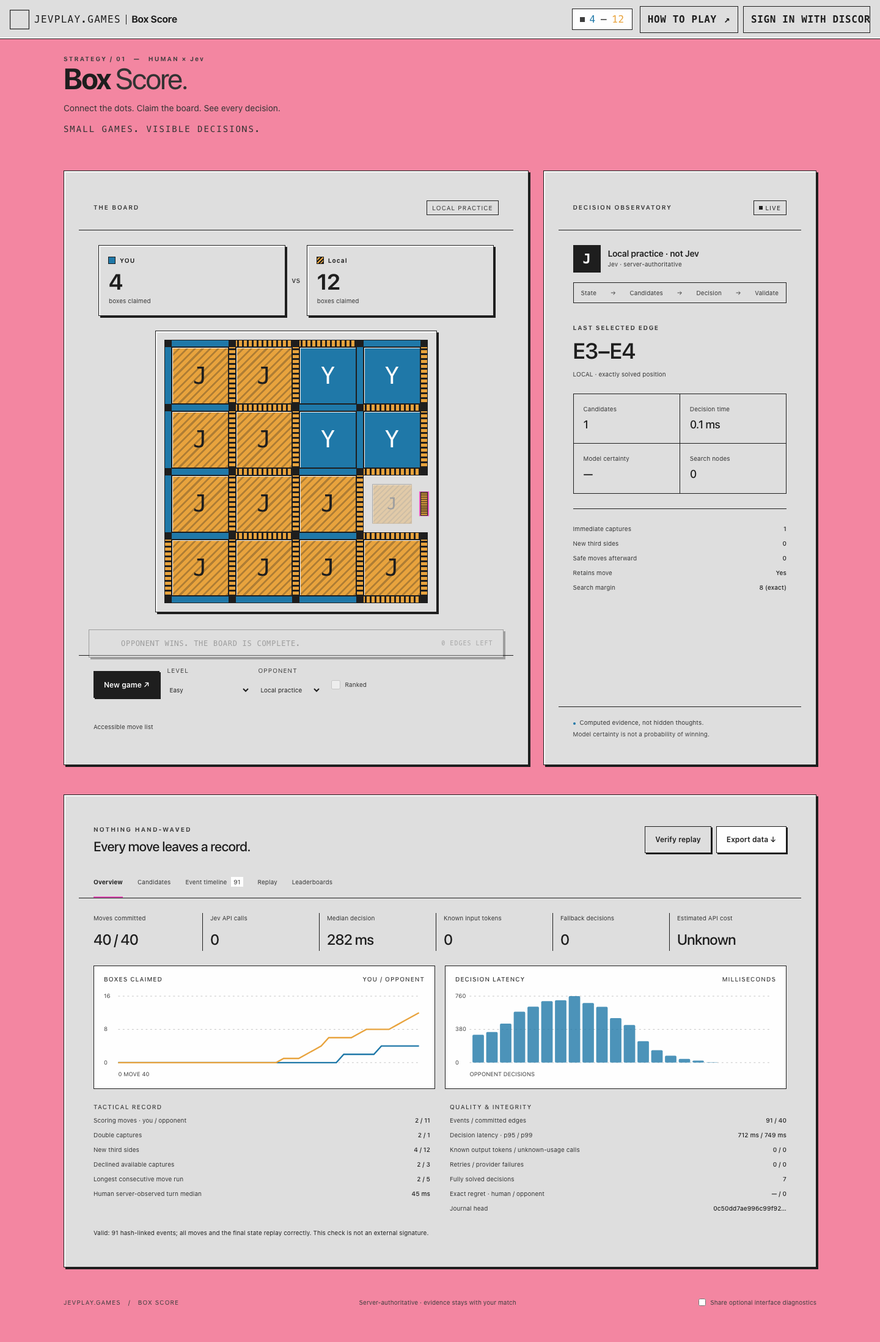
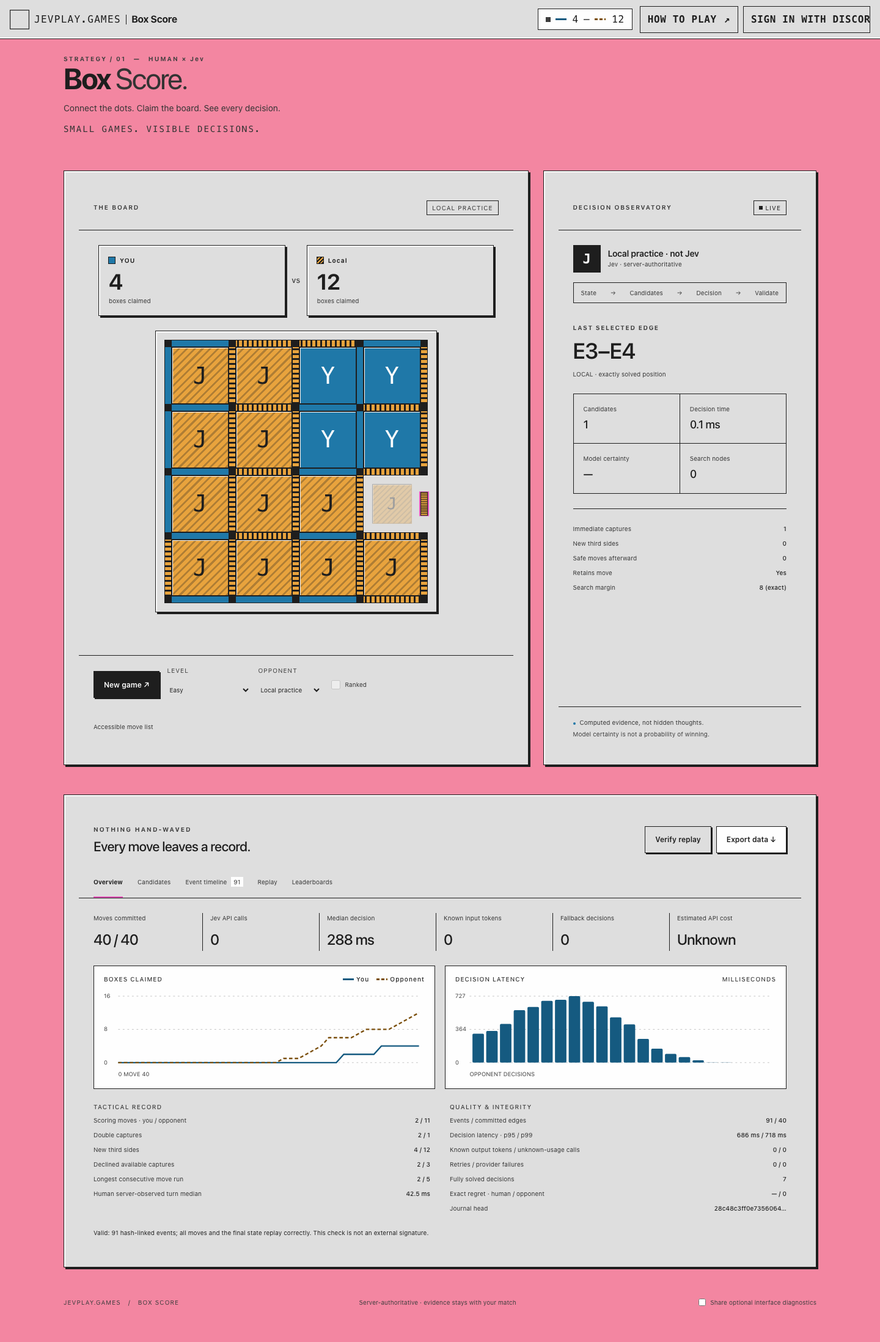
Apply the D8 chart colours: dark chart pair, dashed Jev series, legends
Chart-contrast audit (CHART-AUDIT.md, T5a) failed the boxes-claimed Jev line (2.14:1),
the replay Jev edges (1.60:1) and the Jev score text in the header (2.14:1).
- game.css defines --chart-jev #7A4E0B / --chart-human #155A80 (brand.css untouched)
- Score chart, latency bars and replay lines/boxes use the chart pair; Jev series dashed
- Boxes-claimed chart gets a legend: ink text, solid/dashed coloured swatches
- Header scores are ink text with a coloured swatch beside each
- Regenerated build manifest, SHA256SUMS, test results and browser previews

diff --git a/public/game.css b/public/game.css
@@ -1,7 +1,11 @@
 /* brand.css owns colour, type, spacing and radius tokens. Box Score keeps the default ink accent:
    the board tells players apart with the shared --human (blue) and --jev (amber) fills, plus a
-   non-colour cue on every Jev piece (striped rails, hatched boxes, the J initial). No hex here. */
-*{box-sizing:border-box}body{font-size:var(--fs-sm);line-height:1.6}button,input,select{font:inherit}button,a,input,select,summary{outline-offset:5px}button{cursor:pointer}button:disabled{cursor:not-allowed;opacity:.5}button,a{touch-action:manipulation}a{color:inherit;text-decoration:none}[hidden]{display:none!important}.button{background:var(--raised);border:1px solid var(--line);border-radius:var(--radius-sm);color:var(--text);padding:var(--s2) var(--s4);min-height:44px;transition:background .15s,border-color .15s;font-weight:600;font-size:var(--fs-xs);white-space:nowrap}.button{box-shadow:var(--drop-sm)}.button:active{background:var(--surface);transform:translate(1px,1px);box-shadow:none}@media(hover:hover){.button:hover{background:var(--surface)}}.button.primary{background:var(--ink);border-color:var(--ink);color:var(--paper)}.button.primary:active{background:var(--muted)}@media(hover:hover){.button.primary:hover{background:var(--muted)}}.button.subtle{background:transparent}.button.selected{background:var(--ink);border-color:var(--ink);color:var(--paper)}.title-row{display:flex;align-items:center;justify-content:space-between;margin-bottom:var(--s6)}.eyebrow{color:var(--subtle);font-size:var(--fs-2xs);font-weight:700;letter-spacing:2px}.separator{padding:0 var(--s2)}.title-dot{color:var(--ink)}.subtitle{color:var(--muted);margin:var(--s2) 0 0;font-size:var(--fs-xs)}.workspace{display:grid;grid-template-columns:minmax(0,1.7fr) minmax(310px,1fr);gap:var(--s5)}.game-card,.insight-card,.analytics-card{overflow:hidden}.card-top{display:flex;align-items:center;justify-content:space-between;padding:var(--s5) var(--s5);border-bottom:1px solid var(--line)}.card-top h2{font-size:var(--fs-2xs);letter-spacing:1.7px;font-weight:600;margin:0;color:var(--muted)}.pill{font-size:var(--fs-2xs);letter-spacing:1px;text-transform:uppercase;border:1px solid var(--line);padding:3px var(--s2);border-radius:var(--radius-xl);color:var(--muted);display:inline-flex;align-items:center;gap:var(--s1)}.pill.live{color:var(--text);border-color:var(--line)}.scoreboard{display:grid;grid-template-columns:1fr 35px 1fr;align-items:center;margin:var(--s5) var(--s6) 0}.score-card{position:relative}.score-label{font-size:var(--fs-2xs);letter-spacing:1px;font-weight:650;display:flex;gap:var(--s2);align-items:center}.score-label>span:last-child:not(.player-mark):not(#opponent-name){margin-left:auto;font-size:var(--fs-2xs);color:var(--text)}#jev-turn{color:var(--text)}.player-mark{display:inline-block;width:6px;height:6px;border-radius:2px}.human-dot{background:var(--human)}.jev-dot{background:var(--jev)}.score-value{font-size:var(--fs-num-lg);line-height:1.3;font-weight:650;letter-spacing:-1px;margin-top:var(--s1)}.score-unit{font-size:var(--fs-2xs);color:var(--muted)}.score-vs{text-align:center;font-size:var(--fs-2xs);color:var(--subtle);font-weight:600}.board-wrap{padding:var(--s5) var(--s6) var(--s5);max-width:510px;width:100%;margin:auto;--fit-reserve:300px}.board{--fit-max:444px;width:100%;margin-inline:auto;display:grid;grid-template-columns:12px 1fr 12px 1fr 12px 1fr 12px 1fr 12px;grid-template-rows:12px 1fr 12px 1fr 12px 1fr 12px 1fr 12px;aspect-ratio:1;position:relative;isolation:isolate}.dot{width:8px;height:8px;border-radius:50%;background:var(--ink);align-self:center;justify-self:center;z-index:4;pointer-events:none;box-shadow:0 0 0 3px var(--surface)}.edge{border:0;padding:0;background:transparent;position:relative;z-index:3;justify-self:center;align-self:center;display:flex;align-items:center;justify-content:center;min-width:0;min-height:0;opacity:1!important}.edge.h{width:calc(100% - 18px);min-width:44px;height:var(--tap);min-height:var(--tap)}.edge.v{width:var(--tap);min-width:var(--tap);height:calc(100% - 18px);min-height:44px}.edge:before{content:"";position:absolute;background:var(--line-soft);border-radius:var(--radius-sm);pointer-events:none}.edge.h:before{height:3px;width:calc(100% + 30px)}.edge.v:before{width:3px;height:calc(100% + 30px)}.edge.available:focus-visible:before,.edge.available:active:before,.edge.available.is-active:before{background:var(--human)}@media(hover:hover){.edge.available:hover:before{background:var(--human)}}.edge.owned-human:before{background:var(--human)}.edge.owned-jev:before{background:var(--jev)}.box-cell{display:flex;align-items:center;justify-content:center;border-radius:var(--radius-sm);align-self:stretch;justify-self:stretch;margin:0;z-index:0;font-size:var(--fs-sm);color:var(--subtle);font-weight:650}.turn-line{display:flex;align-items:center;gap:var(--s2);margin:0 var(--s5);padding:var(--s3) 0;border-top:1px solid var(--line)}.status-light{width:6px;height:6px;border-radius:0;background:var(--ink);display:inline-block;flex-shrink:0}.turn-line p{font-size:var(--fs-xs);margin:0;flex:1}.turn-line>span:last-child{font-size:var(--fs-2xs);letter-spacing:1px;color:var(--subtle)}.game-controls{display:flex;gap:var(--s3);align-items:center;padding:var(--s4) var(--s5);border-top:1px solid var(--line);flex-wrap:wrap}.compact-label{font-size:var(--fs-2xs);color:var(--subtle);letter-spacing:1px;display:grid;gap:2px}.compact-label select{padding:2px var(--s4) 2px 0;background:transparent;border:0;min-height:27px;color:var(--text);font-size:var(--fs-2xs);letter-spacing:0}.check-label{font-size:var(--fs-2xs);color:var(--muted);display:flex;align-items:center;gap:var(--s1)}input[type=checkbox]{accent-color:var(--ink);width:15px;height:15px}select{border:1px solid var(--line);border-radius:var(--radius-sm);background:var(--raised);padding:var(--s2) var(--s3);color:var(--text);max-width:100%;min-height:40px}.accessible-moves{font-size:var(--fs-2xs);color:var(--muted);padding:0 var(--s5) var(--s4)}.accessible-moves summary{cursor:pointer}.accessible-moves label{display:block;margin-top:var(--s2)}.inline{display:flex;gap:var(--s2);align-items:center;margin-top:var(--s2)}.notice{padding:var(--s3) var(--s5);border-top:1px solid var(--line);color:var(--text);background:var(--warn);font-size:var(--fs-2xs)}.insight-card{display:flex;flex-direction:column}.opponent-state{padding:var(--s5) var(--s5) var(--s4);display:flex;align-items:center;gap:var(--s3)}.agent-icon{border:1px solid var(--line);background:var(--ink);color:var(--paper);font-family:var(--font-pixel);width:45px;height:45px;display:grid;place-items:center;font-size:var(--fs-xl);border-radius:var(--radius);font-weight:650}.opponent-state h3{font-size:var(--fs-sm);margin:0;font-weight:600}.opponent-state p{margin:1px 0 0;font-size:var(--fs-2xs);color:var(--muted)}.pipeline{display:flex;align-items:center;justify-content:space-between;margin:0 var(--s5);font-size:var(--fs-2xs);color:var(--muted);border:1px solid var(--line);border-radius:var(--radius-sm);padding:var(--s2) var(--s3)}.pipeline i{font-style:normal;color:var(--subtle)}.pipeline.busy{border-color:var(--magenta);box-shadow:0 0 0 1px var(--magenta)}.decision-hero{padding:var(--s6) var(--s5) var(--s5);display:flex;flex-direction:column;gap:3px}.decision-hero .eyebrow{font-size:var(--fs-2xs);letter-spacing:1.5px}.decision-hero strong{font-size:var(--fs-num-lg);font-weight:550;letter-spacing:-1px;color:var(--text);line-height:1.5}.source-label{font-size:var(--fs-2xs);color:var(--muted)}.mini-grid{display:grid;grid-template-columns:1fr 1fr;margin:0 var(--s5);border-top:1px solid var(--line);border-left:1px solid var(--line);border-radius:var(--radius-sm);overflow:hidden}.mini-grid>div{padding:var(--s4);border-right:1px solid var(--line);border-bottom:1px solid var(--line);display:flex;flex-direction:column;gap:var(--s1)}.mini-grid span{font-size:var(--fs-2xs);color:var(--muted)}.mini-grid strong{font-size:var(--fs-lg);font-weight:500;letter-spacing:-.5px}.factor-list{margin:var(--s5) var(--s5);padding-top:var(--s4);border-top:1px solid var(--line);font-size:var(--fs-2xs);color:var(--muted)}.factor{display:flex;align-items:center;justify-content:space-between;margin:var(--s2) 0;gap:var(--s2)}.factor b{color:var(--text);font-size:var(--fs-2xs);font-weight:550}.insight-footer{border-top:1px solid var(--line);padding:var(--s4) var(--s5);margin-top:auto;font-size:var(--fs-2xs);color:var(--muted);line-height:1.9}.tiny-dot{display:inline-block;width:4px;height:4px;background:var(--human);border-radius:50%;margin-right:var(--s1)}.muted{color:var(--subtle)}.analytics-card{margin-top:var(--s5)}.analytics-heading{display:flex;align-items:center;justify-content:space-between;padding:var(--s5) var(--s5) var(--s5);gap:var(--s4)}.analytics-heading h2{font-size:var(--fs-xl);letter-spacing:-.5px;font-weight:500;margin:var(--s2) 0 0}.analytics-heading .eyebrow{font-size:var(--fs-2xs)}.export-actions{display:flex;gap:var(--s2)}.tabs{display:flex;border-bottom:1px solid var(--line);padding:0 var(--s5);gap:var(--s5);overflow-x:auto}.tab{border:0;background:none;color:var(--muted);padding:var(--s3) 0 var(--s4);font-size:var(--fs-2xs);white-space:nowrap;border-bottom:2px solid transparent}.tab.active{color:var(--text);font-weight:700;border-bottom-color:var(--magenta)}#event-count{font-size:var(--fs-2xs);background:var(--raised);padding:2px var(--s1);border-radius:var(--radius-sm);margin-left:4px}.tab-panel{padding:var(--s5) var(--s5) var(--s5)}.metric-grid{display:grid;grid-template-columns:repeat(6,1fr);gap:var(--s3);margin-bottom:var(--s5)}.metric-grid>div{border-right:1px solid var(--line);display:flex;flex-direction:column;gap:var(--s2)}.metric-grid>div:last-child{border:0}.metric-grid>div>span{font-size:var(--fs-2xs);color:var(--muted)}.metric-grid strong{font-size:var(--fs-num-sm);font-weight:500;letter-spacing:-.7px}.metric-grid strong>span{font-size:var(--fs-xs);color:var(--subtle);letter-spacing:0}.chart-grid{display:grid;grid-template-columns:1fr 1fr;gap:var(--s4)}.chart-box{background:var(--raised);border:1px solid var(--line);border-radius:var(--radius-sm);padding:var(--s4) var(--s4) var(--s2)}.chart-box h3{font-size:var(--fs-2xs);letter-spacing:1px;color:var(--muted);font-weight:500;display:flex;justify-content:space-between;margin:0 0 var(--s2)}.chart-box h3 span{font-size:var(--fs-2xs);color:var(--subtle)}svg{width:100%;height:auto;overflow:visible}.chart-grid-line{stroke:var(--line-soft);stroke-width:1;stroke-dasharray:3 5}.chart-human{stroke:var(--human);fill:none;stroke-width:2.5}.chart-jev{stroke:var(--jev);fill:none;stroke-width:2.5}.chart-bar{fill:var(--human);opacity:.8}.chart-text{fill:var(--subtle);font-size:var(--fs-2xs);font-family:var(--font)}.overview-bottom{display:grid;grid-template-columns:1fr 1fr;gap:var(--s6);margin-top:var(--s5)}.overview-bottom h3{font-size:var(--fs-2xs);letter-spacing:1.2px;font-weight:500;color:var(--subtle)}.record-row{display:flex;justify-content:space-between;gap:var(--s4);margin:var(--s2) 0;font-size:var(--fs-2xs);color:var(--muted)}.record-row strong{font-weight:500;color:var(--text);text-align:right}.audit-result{font-size:var(--fs-2xs);color:var(--text);margin:var(--s4) 0 0}.panel-toolbar{display:flex;justify-content:space-between;gap:var(--s4);align-items:center;margin-bottom:var(--s4);color:var(--muted);font-size:var(--fs-2xs)}.panel-toolbar p{margin:0}.panel-toolbar label{display:flex;align-items:center;gap:var(--s2);flex-shrink:0}.panel-toolbar select{font-size:var(--fs-2xs);max-width:240px}.table-scroll{overflow:auto;max-height:550px}table{border-collapse:collapse;width:100%;text-align:left;font-size:var(--fs-2xs);white-space:nowrap}th{font-size:var(--fs-2xs);font-weight:600;color:var(--muted);letter-spacing:.7px;text-transform:uppercase;background:var(--surface);position:sticky;top:0}td,th{padding:var(--s3) var(--s3);border-bottom:1px solid var(--line)}td{color:var(--muted)}tr.selected-row td{color:var(--text);background:var(--raised);font-weight:700}tr.selected-row td:first-child{box-shadow:inset 3px 0 0 var(--magenta)}.fine-print{font-size:var(--fs-2xs);color:var(--subtle);margin-top:var(--s4);line-height:1.8}.timeline{max-height:550px;overflow:auto}.event{border-bottom:1px solid var(--line);padding:var(--s2) var(--s1)}.event summary{font-size:var(--fs-2xs);cursor:pointer;color:var(--muted)}.event summary b{font-weight:500;color:var(--text);margin:0 var(--s3)}.event pre{font-size:var(--fs-2xs);white-space:pre-wrap;overflow-wrap:anywhere;color:var(--muted);max-height:360px;overflow:auto;background:var(--sunken);padding:var(--s3);border-radius:var(--radius-sm)}.scope-tabs{display:flex;gap:var(--s2)}.page-footer{display:flex;align-items:center;justify-content:space-between;gap:var(--s4);padding:var(--s5) 0 var(--s2);color:var(--subtle);font-size:var(--fs-2xs)}.page-footer>div{letter-spacing:1px}.page-footer>div>span{margin:0 var(--s2)}.page-footer label{display:flex;align-items:center;gap:var(--s1)}.page-footer input{width:12px;height:12px}.replay-layout{display:grid;grid-template-columns:minmax(210px,350px) 1fr;gap:var(--s7);align-items:center}.replay-board{aspect-ratio:1}.replay-controls>strong{display:block;font-size:var(--fs-num-lg);color:var(--text);font-weight:500;margin:var(--s4) 0}.replay-controls>p{font-size:var(--fs-xs);color:var(--muted)}.replay-controls input[type=range]{width:100%;accent-color:var(--human)}.replay-line-human{stroke:var(--human);stroke-width:3;stroke-linecap:round}.replay-line-jev{stroke:var(--jev);stroke-width:3;stroke-linecap:round}.replay-line-empty{stroke:var(--line-soft);stroke-width:2}.replay-dot{fill:var(--text)}.replay-box-human{fill:var(--human);fill-opacity:.3}.replay-box-jev{fill:var(--jev);fill-opacity:.3}.replay-text{fill:var(--muted);font:12px var(--font)}dialog{color:var(--text);border:1px solid var(--line);background:var(--surface);border-radius:var(--radius-lg);padding:var(--s5);max-width:570px;width:calc(100vw - 40px);box-shadow:var(--raise)}dialog::backdrop{background:rgba(30,30,30,.55)}.dialog-top{display:flex;gap:var(--s4);align-items:center;justify-content:space-between;margin-bottom:var(--s4)}.dialog-top h2{font-size:var(--fs-xl);font-weight:550;letter-spacing:-.6px;margin:0}dialog p{font-size:var(--fs-xs);color:var(--muted)}dialog h3{font-size:var(--fs-xs);margin:var(--s4) 0 var(--s1)}.export-grid{display:grid;grid-template-columns:1fr 1fr;gap:var(--s2)}.toast{position:fixed;bottom:25px;left:50%;transform:translateX(-50%);padding:var(--s3) var(--s5);border:1px solid var(--line);background:var(--ink);color:var(--paper);border-radius:var(--radius-sm);box-shadow:var(--drop-sm);font-size:var(--fs-xs);max-width:90vw;z-index:99}
+   non-colour cue on every Jev piece (striped rails, hatched boxes, the J initial).
+   Charts and the replay board use the D8 chart pair below instead: brand.css's --human/--jev are
+   too light for lines and text on grey or paper. Jev series are also dashed; legend text stays ink.
+   These are the only hex values here; drop them once the hub's brand.css ships chart tokens. */
+:root{--chart-jev:#7A4E0B;--chart-human:#155A80}
+*{box-sizing:border-box}body{font-size:var(--fs-sm);line-height:1.6}button,input,select{font:inherit}button,a,input,select,summary{outline-offset:5px}button{cursor:pointer}button:disabled{cursor:not-allowed;opacity:.5}button,a{touch-action:manipulation}a{color:inherit;text-decoration:none}[hidden]{display:none!important}.button{background:var(--raised);border:1px solid var(--line);border-radius:var(--radius-sm);color:var(--text);padding:var(--s2) var(--s4);min-height:44px;transition:background .15s,border-color .15s;font-weight:600;font-size:var(--fs-xs);white-space:nowrap}.button{box-shadow:var(--drop-sm)}.button:active{background:var(--surface);transform:translate(1px,1px);box-shadow:none}@media(hover:hover){.button:hover{background:var(--surface)}}.button.primary{background:var(--ink);border-color:var(--ink);color:var(--paper)}.button.primary:active{background:var(--muted)}@media(hover:hover){.button.primary:hover{background:var(--muted)}}.button.subtle{background:transparent}.button.selected{background:var(--ink);border-color:var(--ink);color:var(--paper)}.title-row{display:flex;align-items:center;justify-content:space-between;margin-bottom:var(--s6)}.eyebrow{color:var(--subtle);font-size:var(--fs-2xs);font-weight:700;letter-spacing:2px}.separator{padding:0 var(--s2)}.title-dot{color:var(--ink)}.subtitle{color:var(--muted);margin:var(--s2) 0 0;font-size:var(--fs-xs)}.workspace{display:grid;grid-template-columns:minmax(0,1.7fr) minmax(310px,1fr);gap:var(--s5)}.game-card,.insight-card,.analytics-card{overflow:hidden}.card-top{display:flex;align-items:center;justify-content:space-between;padding:var(--s5) var(--s5);border-bottom:1px solid var(--line)}.card-top h2{font-size:var(--fs-2xs);letter-spacing:1.7px;font-weight:600;margin:0;color:var(--muted)}.pill{font-size:var(--fs-2xs);letter-spacing:1px;text-transform:uppercase;border:1px solid var(--line);padding:3px var(--s2);border-radius:var(--radius-xl);color:var(--muted);display:inline-flex;align-items:center;gap:var(--s1)}.pill.live{color:var(--text);border-color:var(--line)}.scoreboard{display:grid;grid-template-columns:1fr 35px 1fr;align-items:center;margin:var(--s5) var(--s6) 0}.score-card{position:relative}.score-label{font-size:var(--fs-2xs);letter-spacing:1px;font-weight:650;display:flex;gap:var(--s2);align-items:center}.score-label>span:last-child:not(.player-mark):not(#opponent-name){margin-left:auto;font-size:var(--fs-2xs);color:var(--text)}#jev-turn{color:var(--text)}.player-mark{display:inline-block;width:6px;height:6px;border-radius:2px}.human-dot{background:var(--human)}.jev-dot{background:var(--jev)}.score-value{font-size:var(--fs-num-lg);line-height:1.3;font-weight:650;letter-spacing:-1px;margin-top:var(--s1)}.score-unit{font-size:var(--fs-2xs);color:var(--muted)}.score-vs{text-align:center;font-size:var(--fs-2xs);color:var(--subtle);font-weight:600}.board-wrap{padding:var(--s5) var(--s6) var(--s5);max-width:510px;width:100%;margin:auto;--fit-reserve:300px}.board{--fit-max:444px;width:100%;margin-inline:auto;display:grid;grid-template-columns:12px 1fr 12px 1fr 12px 1fr 12px 1fr 12px;grid-template-rows:12px 1fr 12px 1fr 12px 1fr 12px 1fr 12px;aspect-ratio:1;position:relative;isolation:isolate}.dot{width:8px;height:8px;border-radius:50%;background:var(--ink);align-self:center;justify-self:center;z-index:4;pointer-events:none;box-shadow:0 0 0 3px var(--surface)}.edge{border:0;padding:0;background:transparent;position:relative;z-index:3;justify-self:center;align-self:center;display:flex;align-items:center;justify-content:center;min-width:0;min-height:0;opacity:1!important}.edge.h{width:calc(100% - 18px);min-width:44px;height:var(--tap);min-height:var(--tap)}.edge.v{width:var(--tap);min-width:var(--tap);height:calc(100% - 18px);min-height:44px}.edge:before{content:"";position:absolute;background:var(--line-soft);border-radius:var(--radius-sm);pointer-events:none}.edge.h:before{height:3px;width:calc(100% + 30px)}.edge.v:before{width:3px;height:calc(100% + 30px)}.edge.available:focus-visible:before,.edge.available:active:before,.edge.available.is-active:before{background:var(--human)}@media(hover:hover){.edge.available:hover:before{background:var(--human)}}.edge.owned-human:before{background:var(--human)}.edge.owned-jev:before{background:var(--jev)}.box-cell{display:flex;align-items:center;justify-content:center;border-radius:var(--radius-sm);align-self:stretch;justify-self:stretch;margin:0;z-index:0;font-size:var(--fs-sm);color:var(--subtle);font-weight:650}.turn-line{display:flex;align-items:center;gap:var(--s2);margin:0 var(--s5);padding:var(--s3) 0;border-top:1px solid var(--line)}.status-light{width:6px;height:6px;border-radius:0;background:var(--ink);display:inline-block;flex-shrink:0}.turn-line p{font-size:var(--fs-xs);margin:0;flex:1}.turn-line>span:last-child{font-size:var(--fs-2xs);letter-spacing:1px;color:var(--subtle)}.game-controls{display:flex;gap:var(--s3);align-items:center;padding:var(--s4) var(--s5);border-top:1px solid var(--line);flex-wrap:wrap}.compact-label{font-size:var(--fs-2xs);color:var(--subtle);letter-spacing:1px;display:grid;gap:2px}.compact-label select{padding:2px var(--s4) 2px 0;background:transparent;border:0;min-height:27px;color:var(--text);font-size:var(--fs-2xs);letter-spacing:0}.check-label{font-size:var(--fs-2xs);color:var(--muted);display:flex;align-items:center;gap:var(--s1)}input[type=checkbox]{accent-color:var(--ink);width:15px;height:15px}select{border:1px solid var(--line);border-radius:var(--radius-sm);background:var(--raised);padding:var(--s2) var(--s3);color:var(--text);max-width:100%;min-height:40px}.accessible-moves{font-size:var(--fs-2xs);color:var(--muted);padding:0 var(--s5) var(--s4)}.accessible-moves summary{cursor:pointer}.accessible-moves label{display:block;margin-top:var(--s2)}.inline{display:flex;gap:var(--s2);align-items:center;margin-top:var(--s2)}.notice{padding:var(--s3) var(--s5);border-top:1px solid var(--line);color:var(--text);background:var(--warn);font-size:var(--fs-2xs)}.insight-card{display:flex;flex-direction:column}.opponent-state{padding:var(--s5) var(--s5) var(--s4);display:flex;align-items:center;gap:var(--s3)}.agent-icon{border:1px solid var(--line);background:var(--ink);color:var(--paper);font-family:var(--font-pixel);width:45px;height:45px;display:grid;place-items:center;font-size:var(--fs-xl);border-radius:var(--radius);font-weight:650}.opponent-state h3{font-size:var(--fs-sm);margin:0;font-weight:600}.opponent-state p{margin:1px 0 0;font-size:var(--fs-2xs);color:var(--muted)}.pipeline{display:flex;align-items:center;justify-content:space-between;margin:0 var(--s5);font-size:var(--fs-2xs);color:var(--muted);border:1px solid var(--line);border-radius:var(--radius-sm);padding:var(--s2) var(--s3)}.pipeline i{font-style:normal;color:var(--subtle)}.pipeline.busy{border-color:var(--magenta);box-shadow:0 0 0 1px var(--magenta)}.decision-hero{padding:var(--s6) var(--s5) var(--s5);display:flex;flex-direction:column;gap:3px}.decision-hero .eyebrow{font-size:var(--fs-2xs);letter-spacing:1.5px}.decision-hero strong{font-size:var(--fs-num-lg);font-weight:550;letter-spacing:-1px;color:var(--text);line-height:1.5}.source-label{font-size:var(--fs-2xs);color:var(--muted)}.mini-grid{display:grid;grid-template-columns:1fr 1fr;margin:0 var(--s5);border-top:1px solid var(--line);border-left:1px solid var(--line);border-radius:var(--radius-sm);overflow:hidden}.mini-grid>div{padding:var(--s4);border-right:1px solid var(--line);border-bottom:1px solid var(--line);display:flex;flex-direction:column;gap:var(--s1)}.mini-grid span{font-size:var(--fs-2xs);color:var(--muted)}.mini-grid strong{font-size:var(--fs-lg);font-weight:500;letter-spacing:-.5px}.factor-list{margin:var(--s5) var(--s5);padding-top:var(--s4);border-top:1px solid var(--line);font-size:var(--fs-2xs);color:var(--muted)}.factor{display:flex;align-items:center;justify-content:space-between;margin:var(--s2) 0;gap:var(--s2)}.factor b{color:var(--text);font-size:var(--fs-2xs);font-weight:550}.insight-footer{border-top:1px solid var(--line);padding:var(--s4) var(--s5);margin-top:auto;font-size:var(--fs-2xs);color:var(--muted);line-height:1.9}.tiny-dot{display:inline-block;width:4px;height:4px;background:var(--human);border-radius:50%;margin-right:var(--s1)}.muted{color:var(--subtle)}.analytics-card{margin-top:var(--s5)}.analytics-heading{display:flex;align-items:center;justify-content:space-between;padding:var(--s5) var(--s5) var(--s5);gap:var(--s4)}.analytics-heading h2{font-size:var(--fs-xl);letter-spacing:-.5px;font-weight:500;margin:var(--s2) 0 0}.analytics-heading .eyebrow{font-size:var(--fs-2xs)}.export-actions{display:flex;gap:var(--s2)}.tabs{display:flex;border-bottom:1px solid var(--line);padding:0 var(--s5);gap:var(--s5);overflow-x:auto}.tab{border:0;background:none;color:var(--muted);padding:var(--s3) 0 var(--s4);font-size:var(--fs-2xs);white-space:nowrap;border-bottom:2px solid transparent}.tab.active{color:var(--text);font-weight:700;border-bottom-color:var(--magenta)}#event-count{font-size:var(--fs-2xs);background:var(--raised);padding:2px var(--s1);border-radius:var(--radius-sm);margin-left:4px}.tab-panel{padding:var(--s5) var(--s5) var(--s5)}.metric-grid{display:grid;grid-template-columns:repeat(6,1fr);gap:var(--s3);margin-bottom:var(--s5)}.metric-grid>div{border-right:1px solid var(--line);display:flex;flex-direction:column;gap:var(--s2)}.metric-grid>div:last-child{border:0}.metric-grid>div>span{font-size:var(--fs-2xs);color:var(--muted)}.metric-grid strong{font-size:var(--fs-num-sm);font-weight:500;letter-spacing:-.7px}.metric-grid strong>span{font-size:var(--fs-xs);color:var(--subtle);letter-spacing:0}.chart-grid{display:grid;grid-template-columns:1fr 1fr;gap:var(--s4)}.chart-box{background:var(--raised);border:1px solid var(--line);border-radius:var(--radius-sm);padding:var(--s4) var(--s4) var(--s2)}.chart-box h3{font-size:var(--fs-2xs);letter-spacing:1px;color:var(--muted);font-weight:500;display:flex;justify-content:space-between;margin:0 0 var(--s2)}.chart-box h3 span{font-size:var(--fs-2xs);color:var(--subtle)}svg{width:100%;height:auto;overflow:visible}.chart-grid-line{stroke:var(--line-soft);stroke-width:1;stroke-dasharray:3 5}.chart-human{stroke:var(--chart-human);fill:none;stroke-width:2.5}.chart-jev{stroke:var(--chart-jev);fill:none;stroke-width:2.5;stroke-dasharray:6 4}.chart-bar{fill:var(--chart-human)}.chart-legend{display:flex;gap:var(--s3);align-items:center}.chart-box h3 .chart-legend,.chart-box h3 .chart-legend span{color:var(--text)}.chart-legend span{display:inline-flex;align-items:center;gap:var(--s1)}.key{display:inline-block;width:18px;height:3px;flex:none;background:var(--chart-human)}.key-jev{background:repeating-linear-gradient(90deg,var(--chart-jev) 0 5px,transparent 5px 8px)}.chart-text{fill:var(--subtle);font-size:var(--fs-2xs);font-family:var(--font)}.overview-bottom{display:grid;grid-template-columns:1fr 1fr;gap:var(--s6);margin-top:var(--s5)}.overview-bottom h3{font-size:var(--fs-2xs);letter-spacing:1.2px;font-weight:500;color:var(--subtle)}.record-row{display:flex;justify-content:space-between;gap:var(--s4);margin:var(--s2) 0;font-size:var(--fs-2xs);color:var(--muted)}.record-row strong{font-weight:500;color:var(--text);text-align:right}.audit-result{font-size:var(--fs-2xs);color:var(--text);margin:var(--s4) 0 0}.panel-toolbar{display:flex;justify-content:space-between;gap:var(--s4);align-items:center;margin-bottom:var(--s4);color:var(--muted);font-size:var(--fs-2xs)}.panel-toolbar p{margin:0}.panel-toolbar label{display:flex;align-items:center;gap:var(--s2);flex-shrink:0}.panel-toolbar select{font-size:var(--fs-2xs);max-width:240px}.table-scroll{overflow:auto;max-height:550px}table{border-collapse:collapse;width:100%;text-align:left;font-size:var(--fs-2xs);white-space:nowrap}th{font-size:var(--fs-2xs);font-weight:600;color:var(--muted);letter-spacing:.7px;text-transform:uppercase;background:var(--surface);position:sticky;top:0}td,th{padding:var(--s3) var(--s3);border-bottom:1px solid var(--line)}td{color:var(--muted)}tr.selected-row td{color:var(--text);background:var(--raised);font-weight:700}tr.selected-row td:first-child{box-shadow:inset 3px 0 0 var(--magenta)}.fine-print{font-size:var(--fs-2xs);color:var(--subtle);margin-top:var(--s4);line-height:1.8}.timeline{max-height:550px;overflow:auto}.event{border-bottom:1px solid var(--line);padding:var(--s2) var(--s1)}.event summary{font-size:var(--fs-2xs);cursor:pointer;color:var(--muted)}.event summary b{font-weight:500;color:var(--text);margin:0 var(--s3)}.event pre{font-size:var(--fs-2xs);white-space:pre-wrap;overflow-wrap:anywhere;color:var(--muted);max-height:360px;overflow:auto;background:var(--sunken);padding:var(--s3);border-radius:var(--radius-sm)}.scope-tabs{display:flex;gap:var(--s2)}.page-footer{display:flex;align-items:center;justify-content:space-between;gap:var(--s4);padding:var(--s5) 0 var(--s2);color:var(--subtle);font-size:var(--fs-2xs)}.page-footer>div{letter-spacing:1px}.page-footer>div>span{margin:0 var(--s2)}.page-footer label{display:flex;align-items:center;gap:var(--s1)}.page-footer input{width:12px;height:12px}.replay-layout{display:grid;grid-template-columns:minmax(210px,350px) 1fr;gap:var(--s7);align-items:center}.replay-board{aspect-ratio:1}.replay-controls>strong{display:block;font-size:var(--fs-num-lg);color:var(--text);font-weight:500;margin:var(--s4) 0}.replay-controls>p{font-size:var(--fs-xs);color:var(--muted)}.replay-controls input[type=range]{width:100%;accent-color:var(--human)}.replay-line-human{stroke:var(--chart-human);stroke-width:3;stroke-linecap:round}.replay-line-jev{stroke:var(--chart-jev);stroke-width:3;stroke-linecap:butt;stroke-dasharray:6 4}.replay-line-empty{stroke:var(--line-soft);stroke-width:2}.replay-dot{fill:var(--text)}.replay-box-human{fill:var(--chart-human);fill-opacity:.3}.replay-box-jev{fill:var(--chart-jev);fill-opacity:.3}.replay-text{fill:var(--muted);font:12px var(--font)}dialog{color:var(--text);border:1px solid var(--line);background:var(--surface);border-radius:var(--radius-lg);padding:var(--s5);max-width:570px;width:calc(100vw - 40px);box-shadow:var(--raise)}dialog::backdrop{background:rgba(30,30,30,.55)}.dialog-top{display:flex;gap:var(--s4);align-items:center;justify-content:space-between;margin-bottom:var(--s4)}.dialog-top h2{font-size:var(--fs-xl);font-weight:550;letter-spacing:-.6px;margin:0}dialog p{font-size:var(--fs-xs);color:var(--muted)}dialog h3{font-size:var(--fs-xs);margin:var(--s4) 0 var(--s1)}.export-grid{display:grid;grid-template-columns:1fr 1fr;gap:var(--s2)}.toast{position:fixed;bottom:25px;left:50%;transform:translateX(-50%);padding:var(--s3) var(--s5);border:1px solid var(--line);background:var(--ink);color:var(--paper);border-radius:var(--radius-sm);box-shadow:var(--drop-sm);font-size:var(--fs-xs);max-width:90vw;z-index:99}
 @media(min-width:1280px){.board-wrap{max-width:none;padding-top:var(--s5);padding-bottom:var(--s5)}.scoreboard{margin-left:var(--s6);margin-right:var(--s6)}}
 @media(max-width:899px){.workspace{grid-template-columns:minmax(0,1.45fr) minmax(285px,1fr);gap:var(--s4)}.game-controls{gap:var(--s2)}.insight-card .card-top,.card-top{padding:var(--s4)}.mini-grid{margin:0 var(--s4)}.opponent-state,.decision-hero{padding-left:var(--s4);padding-right:var(--s4)}.pipeline,.factor-list{margin-left:var(--s4);margin-right:var(--s4)}.metric-grid{grid-template-columns:repeat(3,1fr);row-gap:var(--s5)}.metric-grid>div:nth-child(3){border:0}.scoreboard{margin:var(--s4) var(--s4) 0}.score-card{padding:var(--s3)}.score-label{font-size:var(--fs-2xs)}.score-label>span:last-child:not(.player-mark):not(#opponent-name){font-size:var(--fs-2xs)}.board-wrap{padding-left:var(--s5);padding-right:var(--s5)}.page-footer{flex-wrap:wrap}}
 @media(max-width:600px){.title-row{margin-bottom:var(--s5)}.subtitle{font-size:var(--fs-2xs)}.workspace{grid-template-columns:1fr}.game-card{max-width:600px;width:100%;margin:auto}.insight-card{display:grid;grid-template-columns:1fr 1fr}.insight-card>.card-top{grid-column:1/-1}.opponent-state{grid-column:1/-1;padding:var(--s4)}.pipeline{grid-column:1/-1;margin-bottom:var(--s2)}.decision-hero{grid-column:1;padding-top:var(--s4);padding-bottom:var(--s2)}.mini-grid{grid-column:2;margin:var(--s3) var(--s4) var(--s3) 0}.mini-grid>div{padding:var(--s2)}.mini-grid strong{font-size:var(--fs-md)}.mini-grid span{font-size:var(--fs-2xs)}.factor-list{grid-column:1/-1;margin:var(--s2) var(--s4) var(--s4);padding-top:var(--s2)}.insight-footer{grid-column:1/-1;padding:var(--s3) var(--s4)}.analytics-heading{padding:var(--s4);align-items:flex-start}.analytics-heading h2{font-size:var(--fs-lg)}.analytics-heading .export-actions{flex-direction:column;gap:var(--s1)}.export-actions .button{padding:var(--s2) var(--s2);min-height:35px;font-size:var(--fs-2xs)}.tabs{padding:0 var(--s4);gap:var(--s5)}.tab-panel{padding:var(--s4)}.chart-grid{grid-template-columns:1fr;gap:var(--s3)}.overview-bottom{gap:var(--s5)}.panel-toolbar{align-items:flex-start;flex-direction:column;gap:var(--s3)}.replay-layout{grid-template-columns:1fr;gap:var(--s4)}.replay-board{max-width:310px;width:100%;margin:auto}.metric-grid strong{font-size:var(--fs-xl)}.metric-grid>div>span{font-size:var(--fs-2xs)}.page-footer{gap:var(--s2);line-height:2}.page-footer #connection{width:100%;order:3}}
@@ -19,7 +23,7 @@
 /* Shell integration. brand.css owns the header; one set of secondary controls
    lives in #jv-controls, which brand.js moves between the sheet and the header. */
 .jv-tagline{margin:var(--s3) 0 0;font-size:var(--fs-xs);letter-spacing:2px;color:var(--subtle)}
-.jv-status strong{color:var(--text)}.jv-status strong:first-of-type{color:var(--human)}.jv-status strong:last-of-type{color:var(--jev)}
+.jv-status strong{color:var(--text)}.jv-status strong:first-of-type{color:var(--text)}.jv-status strong:last-of-type{color:var(--text)}.jv-status .key{margin-right:2px}
 .jv-hero{margin-bottom:var(--s6)}
 @media(min-width:900px){#jv-controls .jv-sheet-item{border:1px solid var(--line);border-radius:var(--radius);font-weight:600;max-width:13rem;overflow:hidden;text-overflow:ellipsis}#jv-controls .jv-sheet-item:active{border-color:var(--accent)}@media(hover:hover){#jv-controls .jv-sheet-item:hover{border-color:var(--accent)}}}
 @media(max-height:560px){.jv-hero{margin-bottom:var(--s4)}.subtitle{display:none}.scoreboard{margin-top:var(--s3)}.score-value{font-size:var(--fs-num-sm);margin-top:2px}.score-unit{display:none}.board-wrap{padding-top:var(--s3);padding-bottom:var(--s3);--fit-reserve:210px}.card-top{padding:var(--s3) var(--s4)}}

diff --git a/public/index.html b/public/index.html
@@ -28,7 +28,7 @@
       <span class="jv-sep" aria-hidden="true"></span>
       <span class="jv-title">Box Score</span>
     </a>
-    <span class="jv-status" aria-label="Boxes claimed: you versus opponent"><span class="jv-dot"></span><strong id="human-score">0</strong><span aria-hidden="true">–</span><strong id="jev-score">0</strong></span>
+    <span class="jv-status" aria-label="Boxes claimed: you versus opponent"><span class="jv-dot"></span><i class="key key-human" aria-hidden="true"></i><strong id="human-score">0</strong><span aria-hidden="true">–</span><i class="key key-jev" aria-hidden="true"></i><strong id="jev-score">0</strong></span>
     <button class="jv-icon-btn jv-menu-btn" id="jv-menu" type="button"
             aria-expanded="false" aria-controls="jv-sheet" aria-label="Menu">
       <svg viewBox="0 0 24 24" aria-hidden="true"><path d="M4 7h16M4 12h16M4 17h16"/></svg>
@@ -59,7 +59,7 @@
   <section class="jv-panel analytics-card jv-pip-hide" aria-labelledby="analytics-title">
     <div class="analytics-heading"><div><div class="eyebrow">NOTHING HAND-WAVED</div><h2 id="analytics-title">Every move leaves a record.</h2></div><div class="export-actions"><button id="audit" class="button subtle">Verify replay</button><button id="export" class="button">Export data ↓</button></div></div>
     <nav class="tabs" aria-label="Game data views"><button class="tab active" data-tab="overview" aria-selected="true">Overview</button><button class="tab" data-tab="candidates" aria-selected="false">Candidates</button><button class="tab" data-tab="timeline" aria-selected="false">Event timeline <span id="event-count">0</span></button><button class="tab" data-tab="replay" aria-selected="false">Replay</button><button class="tab" data-tab="leaderboard" aria-selected="false">Leaderboards</button></nav>
-    <div id="panel-overview" class="tab-panel"><div class="metric-grid"><div><span>Moves committed</span><strong id="metric-moves">0<span> / 40</span></strong></div><div><span>Jev API calls</span><strong id="metric-calls">0</strong></div><div><span>Median decision</span><strong id="metric-p50">—</strong></div><div><span>Known input tokens</span><strong id="metric-tokens">0</strong></div><div><span>Fallback decisions</span><strong id="metric-fallbacks">0</strong></div><div><span>Estimated API cost</span><strong id="metric-cost">—</strong></div></div><div class="chart-grid"><div class="chart-box"><h3>BOXES CLAIMED <span>YOU / OPPONENT</span></h3><svg id="score-chart" viewBox="0 0 560 160" role="img" aria-label="Cumulative boxes by move"><title>Cumulative box count</title></svg></div><div class="chart-box"><h3>DECISION LATENCY <span>MILLISECONDS</span></h3><svg id="latency-chart" viewBox="0 0 560 160" role="img" aria-label="Opponent decision latency by move"><title>Decision latency</title></svg></div></div><div class="overview-bottom"><div><h3>TACTICAL RECORD</h3><div id="tactical-record"></div></div><div><h3>QUALITY &amp; INTEGRITY</h3><div id="integrity-record"></div></div></div><p id="audit-result" class="audit-result" role="status"></p></div>
+    <div id="panel-overview" class="tab-panel"><div class="metric-grid"><div><span>Moves committed</span><strong id="metric-moves">0<span> / 40</span></strong></div><div><span>Jev API calls</span><strong id="metric-calls">0</strong></div><div><span>Median decision</span><strong id="metric-p50">—</strong></div><div><span>Known input tokens</span><strong id="metric-tokens">0</strong></div><div><span>Fallback decisions</span><strong id="metric-fallbacks">0</strong></div><div><span>Estimated API cost</span><strong id="metric-cost">—</strong></div></div><div class="chart-grid"><div class="chart-box"><h3>BOXES CLAIMED <span class="chart-legend"><span><i class="key key-human" aria-hidden="true"></i>You</span><span><i class="key key-jev" aria-hidden="true"></i>Opponent</span></span></h3><svg id="score-chart" viewBox="0 0 560 160" role="img" aria-label="Cumulative boxes by move"><title>Cumulative box count</title></svg></div><div class="chart-box"><h3>DECISION LATENCY <span>MILLISECONDS</span></h3><svg id="latency-chart" viewBox="0 0 560 160" role="img" aria-label="Opponent decision latency by move"><title>Decision latency</title></svg></div></div><div class="overview-bottom"><div><h3>TACTICAL RECORD</h3><div id="tactical-record"></div></div><div><h3>QUALITY &amp; INTEGRITY</h3><div id="integrity-record"></div></div></div><p id="audit-result" class="audit-result" role="status"></p></div>
     <div id="panel-candidates" class="tab-panel" hidden><div class="panel-toolbar"><p>All legal choices are preserved, including unselected alternatives.</p><label>Decision <select id="decision-select"></select></label></div><div class="table-scroll"><table><thead><tr><th>Edge</th><th>Selection</th><th>Probability</th><th>Capture</th><th>New third sides</th><th>Safe after</th><th>Jev margin</th><th>Evidence</th><th>Nodes</th></tr></thead><tbody id="candidate-rows"></tbody></table></div><p class="fine-print">Margin is from Jev's perspective. An estimate is not an exact game-theoretic value. Local play has no model probability.</p></div>
     <div id="panel-timeline" class="tab-panel" hidden><div class="panel-toolbar"><p>Ordered, SHA-256-linked events. Select an event to inspect its recorded fields.</p><label>Filter <select id="event-filter"><option value="all">All events</option><option value="move_committed">Moves</option><option value="decision_completed">Decisions</option><option value="provider_attempt">Provider attempts</option><option value="verification_completed">Verification</option></select></label></div><div id="timeline" class="timeline"></div></div>
     <div id="panel-replay" class="tab-panel" hidden><div class="panel-toolbar"><p>Replay recorded moves without contacting Jev.</p><label class="button subtle file-label">Import replay<input type="file" id="import-replay" accept=".json,application/json" hidden></label></div><div class="replay-layout"><div id="replay-board" class="replay-board"></div><div class="replay-controls"><div class="eyebrow">REPLAY POSITION</div><strong id="replay-position">0 / 0</strong><input id="replay-slider" type="range" min="0" max="0" value="0" aria-label="Replay move"><div class="inline"><button id="replay-prev" class="button" aria-label="Previous move">←</button><button id="replay-play" class="button">Play</button><button id="replay-next" class="button" aria-label="Next move">→</button></div><p id="replay-description">No recorded moves yet.</p><p class="fine-print">Imported replays are untrusted practice data. They cannot submit official scores.</p></div></div></div>
